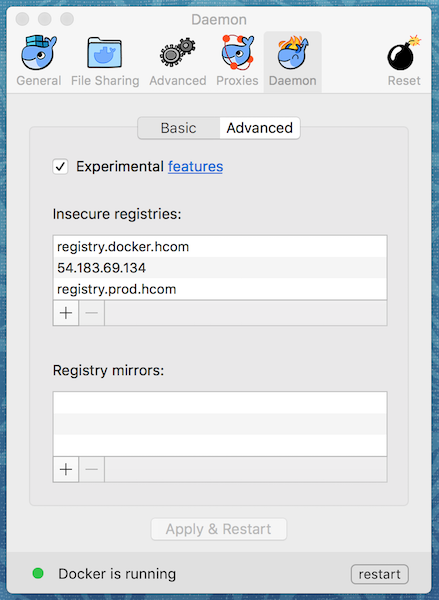
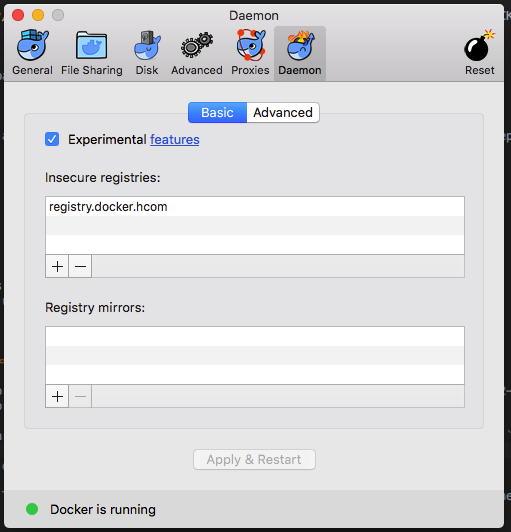
HPAY-4084: added container names

diff --git a/local_environment/README.md b/local_environment/README.md
@@ -25,7 +25,7 @@ To run it on Windows, *Git BASH* can be used (https://gitforwindows.org/)
 
 ### Install Docker CE (Mac/Win)
 
-Download and install Docker CE **17.09.x**
+Download, install and launch Docker CE **17.09.x**
 
 * WIN: https://docs.docker.com/docker-for-windows/release-notes/#docker-community-edition-17091-ce-win42-2017-12-11  
 * MAC: https://docs.docker.com/docker-for-mac/release-notes/#docker-community-edition-17091-ce-mac42-2017-12-11 
@@ -65,6 +65,10 @@ add the disable-legacy-registry flag set to false in `Docker -> Preferences -> D
 
 ![disable legacy registry](assets/disable_legacy_registry.png)
 
+*Note*: If you forgot to add the `disable-legacy-registry flag you may get the following error:
+
+    Error response from daemon: login attempt to http://registry.docker.hcom/v2/ failed with status: 500 Internal Server Error
+
 ### Login to the registry
 
 Login to registry using your SEA credentials
@@ -92,6 +96,8 @@ In `Docker -> Preferences -> Advanced`
 ### hosts file
 
 Please update your hosts file with the following.
+
+*Note:* If you already have the `*.dev-hotels.com` domains in your hosts file, you need to substitute them. 
 
 `hosts` file location:
 * MAC/UNIX: `/etc/hosts`
@@ -170,9 +176,9 @@ Clone the repo.
 
 ### Start/Stop
 
-Move under the `local_env_root_folder`, give execution permissions to the `local_env.sh` bash script and run it.
+Move under the `local_environment`, give execution permissions to the `local_env.sh` bash script and run it.
 
-    $ cd <local_env_root_folder>
+    $ cd <local_environment_root_folder>
     $ chmod a+x local_env.sh 
     $ ./local_env.sh <command> <options>
     Commands:
@@ -192,6 +198,8 @@ If you're using Git BASH and the above command is not working you may need to us
 #### Start
 
     ./local_env.sh start -ba <ba-version>
+
+*Note:* the first time you start the local environment the setup may take a few minutes
     
 #### Stop
 
@@ -224,16 +232,22 @@ the only difference between the 3 use cases above is the version of the BA to be
 
 `./local_env.sh start -ba dev.0`
 
+*Note:* in order to build the BA in local you need to use the profile `-Pbuild-local`.
+
+    $ cd <bookingapp_root_folder>
+    $ mvn clean install -Pbuild-local
+
 ### DUP Feature branch testing
 
-DUP feature branch testing in local can be performed in the same way as in stagin.
+DUP feature branch testing in local can be performed in the same way as in staging.
 You just need either to specify the DUP `feature-branch` parameter on the BF deeplink or set the DUP feature-branch cookie
 
 ### Logging
 
 All the local environment application logs are appended to `startup.log`, you can filter application specific logs by using the `grep` command.
 
-    tail -f startup.log | grep bka
+    $ cd <local_environment_root_folder>
+    $ tail -f startup.log | grep bka
 
 Apps container names:
 * `bka`
@@ -244,12 +258,13 @@ Apps container names:
 ### BA DEBUG
 
 The fixed BA debugging port is `1901`
-You can change this in the `docker-compose.yml`, but if need to do it please make it configurable via the startup script.
+You can change this in the local_environment `<local_environment_root_folder>/docker-compose.yml`, but if need to do it please make it configurable via the startup script.
 
 ### Proxying
 
 Local proxy is not supported via the startup script yet.
-If you need to enable the local proxy you can modify the following configuration into the `docker-compose.yml` file. Again PR welcomed.
+If you need to enable the local proxy you can modify the following configuration into the local_environment `<local_environment_root_folder>/docker-compose.yml` file. Again PR welcomed.
+
 
     # Proxy resources
     # - APP_http.proxyHost=docker.for.mac.localhost
